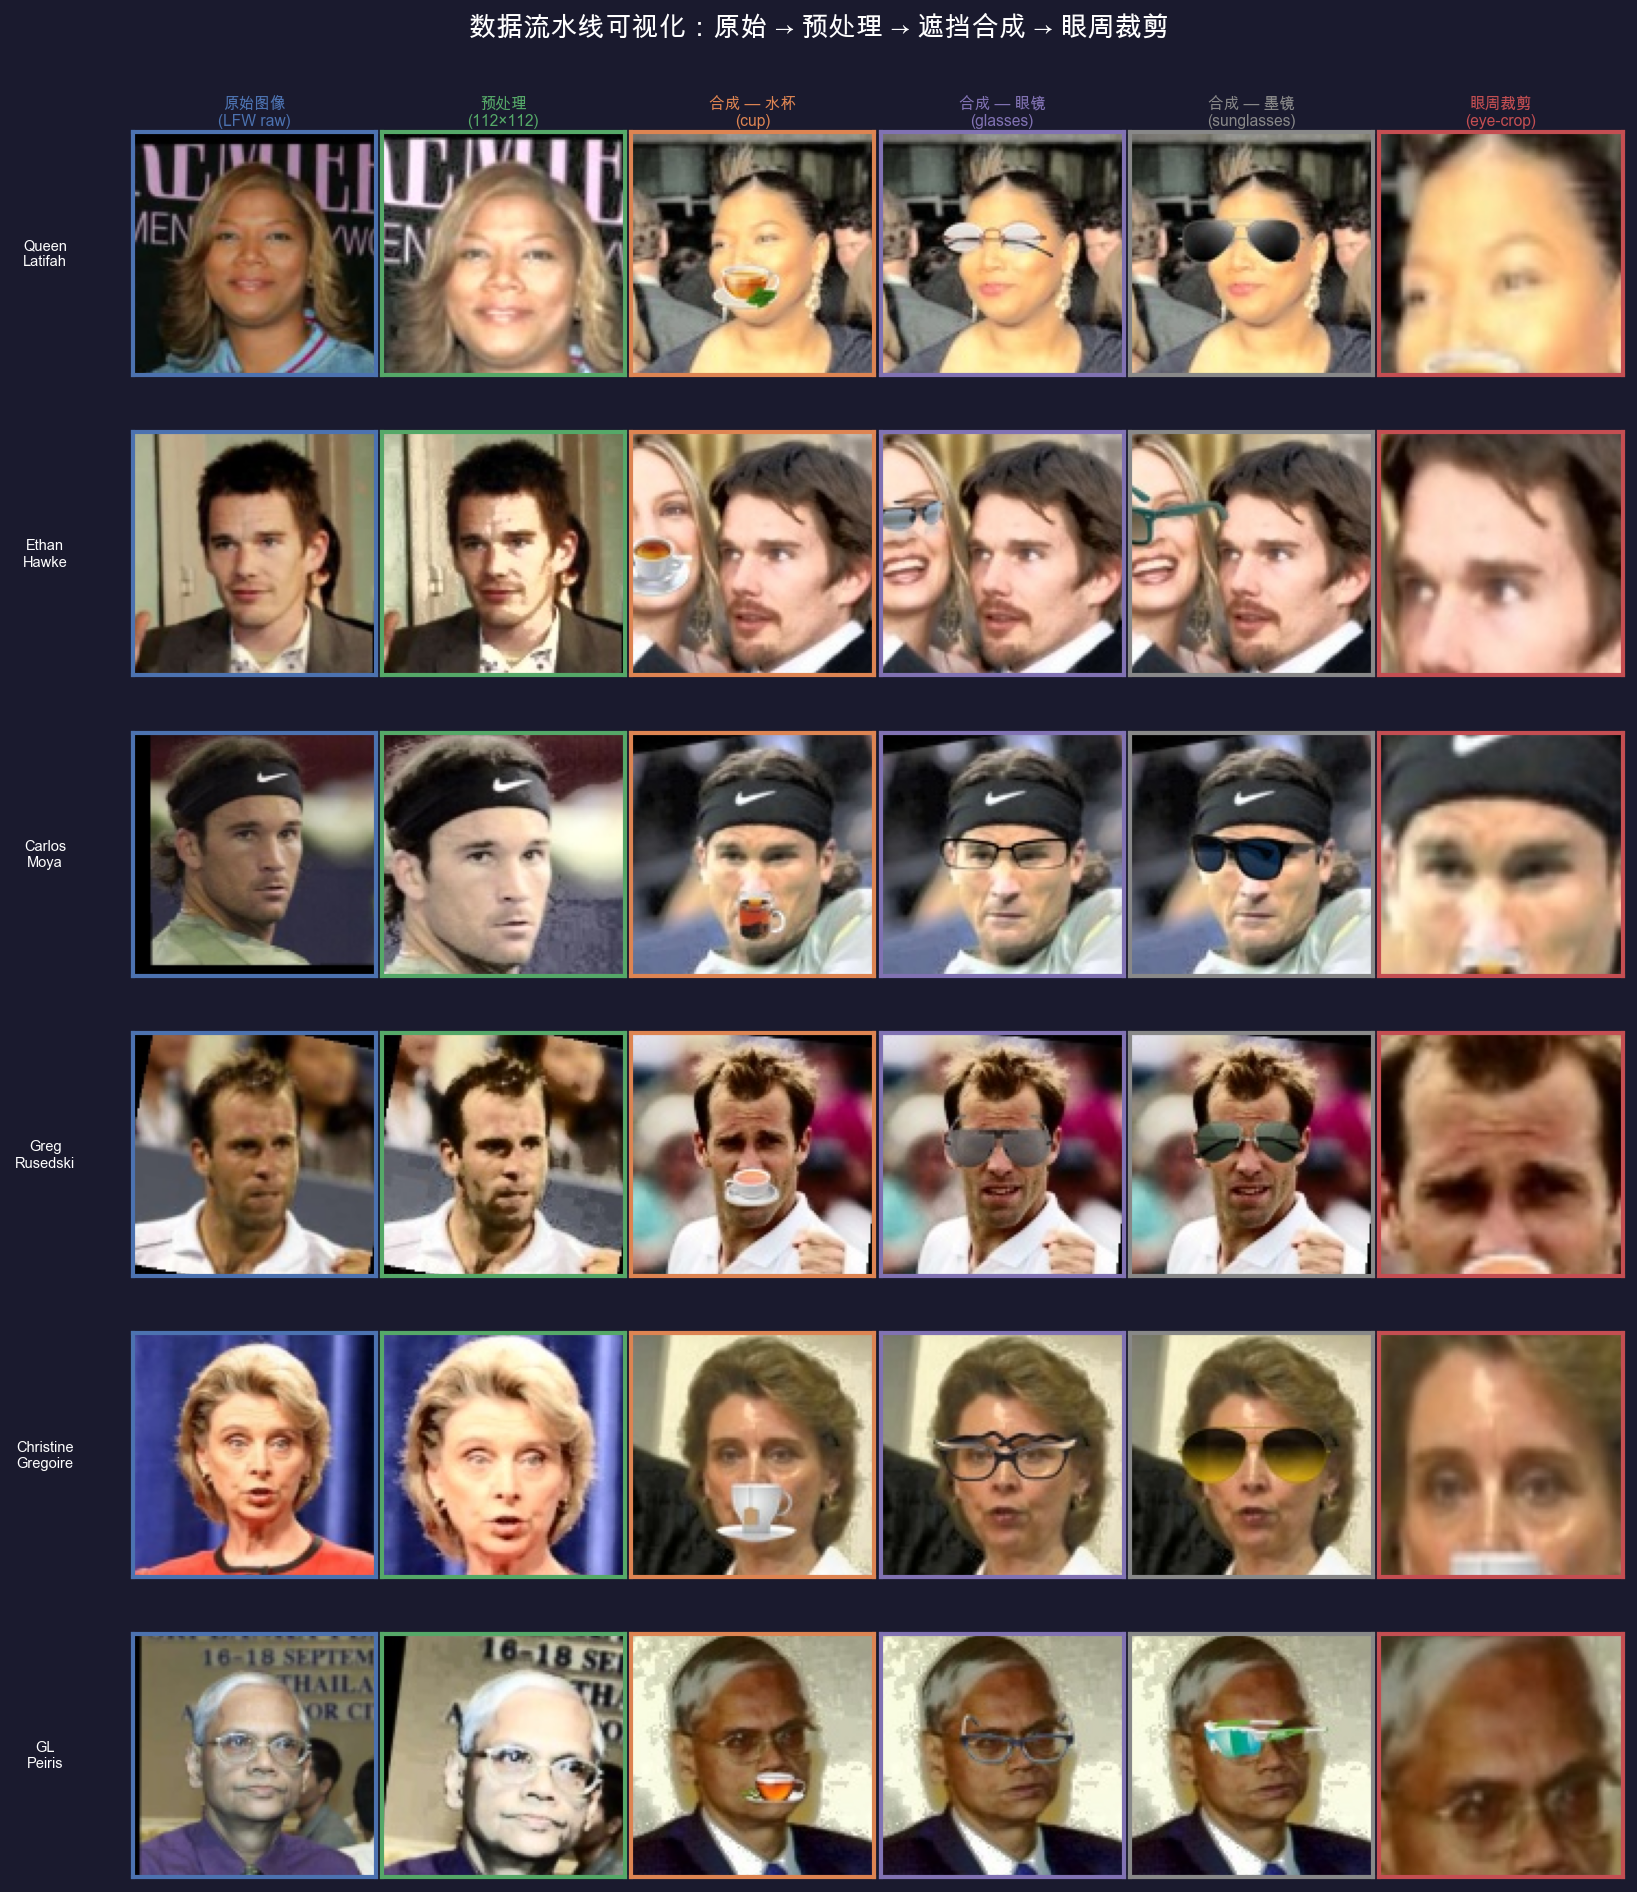
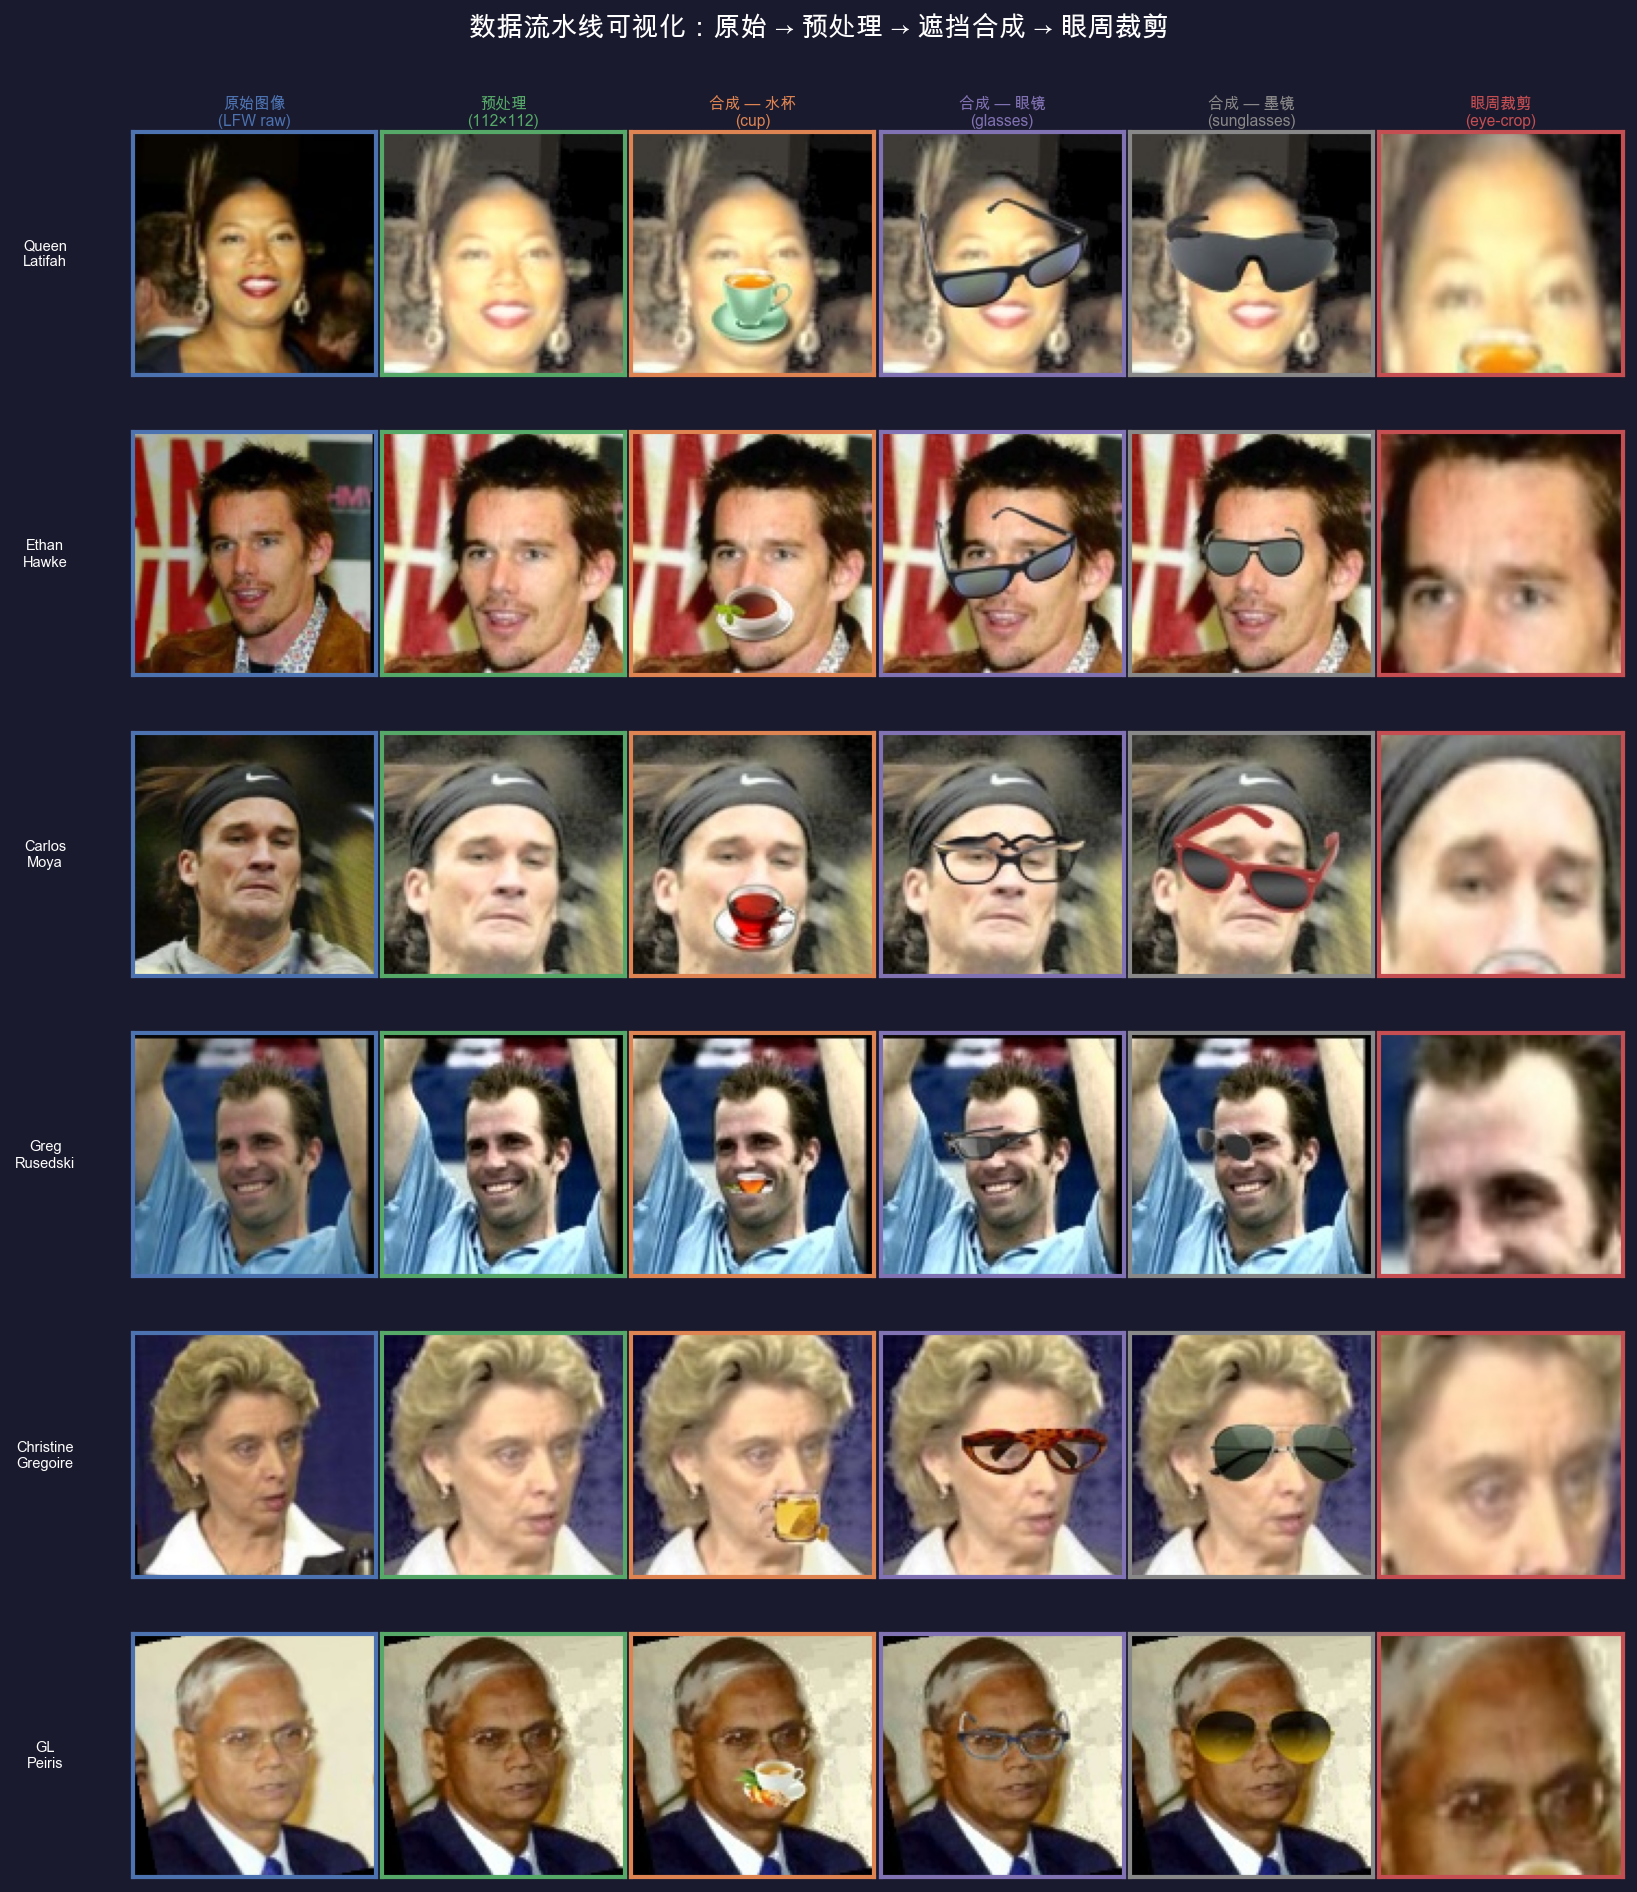
fix(demo): align pipeline strip to same photo per identity
Use synthetic/cup first image stem as anchor so all 6 columns
(raw, processed, cup, glasses, sunglasses, eye-crop) show the
same _0002.jpg photo instead of mixing _0001 and _0002.

diff --git a/scripts/generate_demo_report.py b/scripts/generate_demo_report.py
@@ -123,13 +123,26 @@ def generate_identity_strips() -> None:
         sg_dir   = DATA / "synthetic" / "sunglasses" / identity
         ec_dir   = DATA / "cropped"  / "query" / "cup" / identity
 
+        # Anchor on the first query image in synthetic/cup (never 0001).
+        # Use its stem to fetch the matching file in every directory,
+        # so all 6 columns show the exact same photo of the same person.
+        anchor = _first_img(cup_dir)
+        stem = anchor.stem if anchor else None  # e.g. "Queen_Latifah_0002"
+
+        def _by_stem(directory: Path, fallback_fn=_first_img) -> Path | None:
+            if stem:
+                p = directory / f"{stem}.jpg"
+                if p.exists():
+                    return p
+            return fallback_fn(directory)
+
         paths = [
-            _first_img(raw_dir),
-            _first_img(proc_dir),
-            _second_img(cup_dir),
-            _second_img(gl_dir),
-            _second_img(sg_dir),
-            _second_img(ec_dir),
+            _by_stem(raw_dir),
+            _by_stem(proc_dir),
+            _by_stem(cup_dir),
+            _by_stem(gl_dir),
+            _by_stem(sg_dir),
+            _by_stem(ec_dir),
         ]
 
         for c, path in enumerate(paths):
